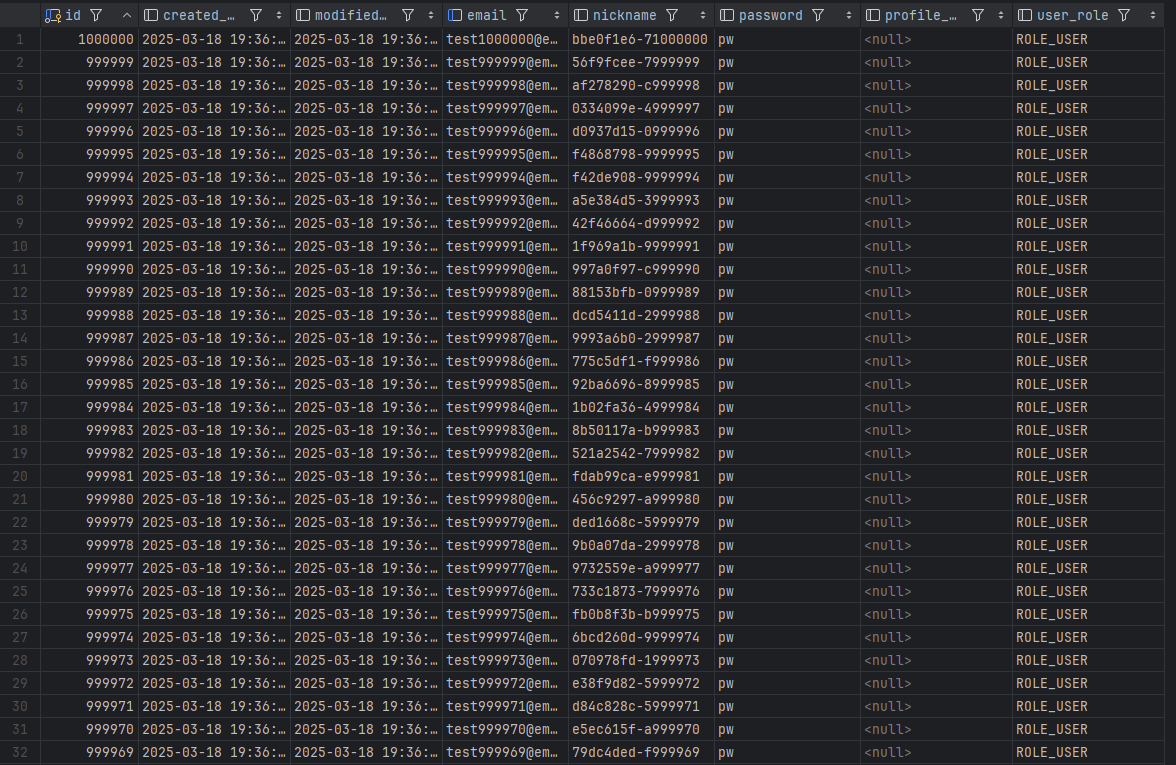
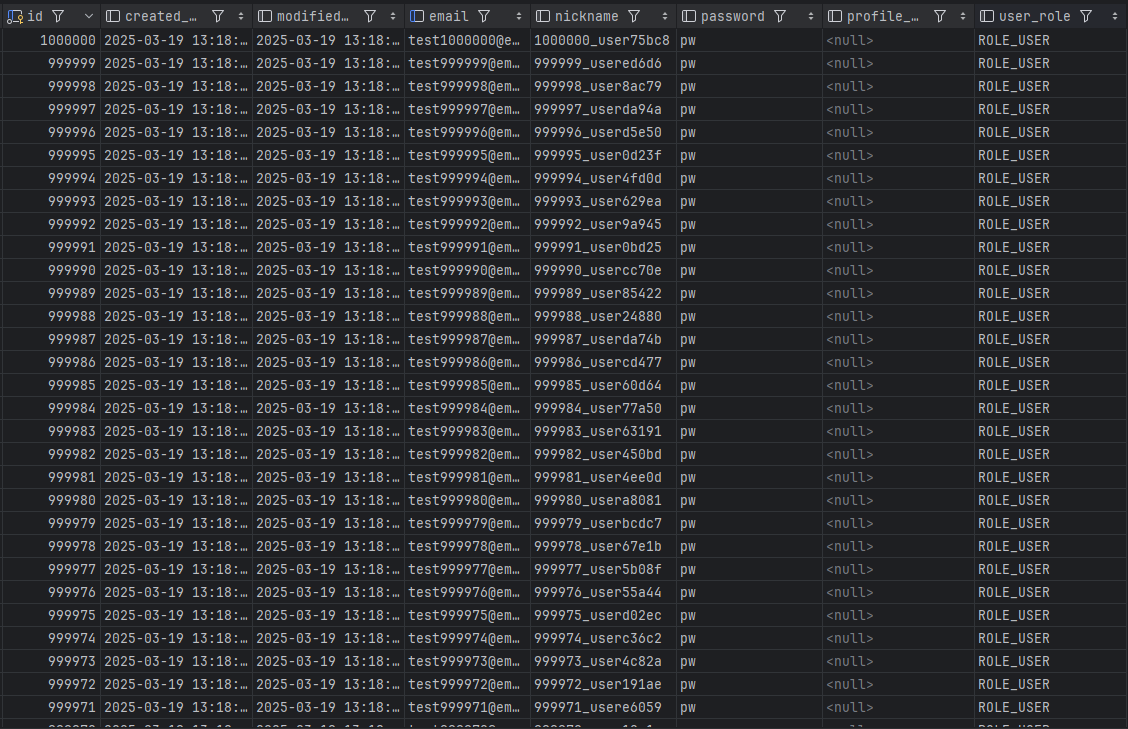
docs: add README

Changed region(s): [[0.0, 0.0, 0.9619, 1.0]]

diff --git a/README.md b/README.md
@@ -68,7 +68,7 @@
 
 ## 13. 대용량 데이터 처리
 
-![data_1.png](readmeImg/data_1.png)
+![data_3.png](readmeImg/data_1.png)
 > 유저 데이터 100만 건 생성 결과
 
 <br>
